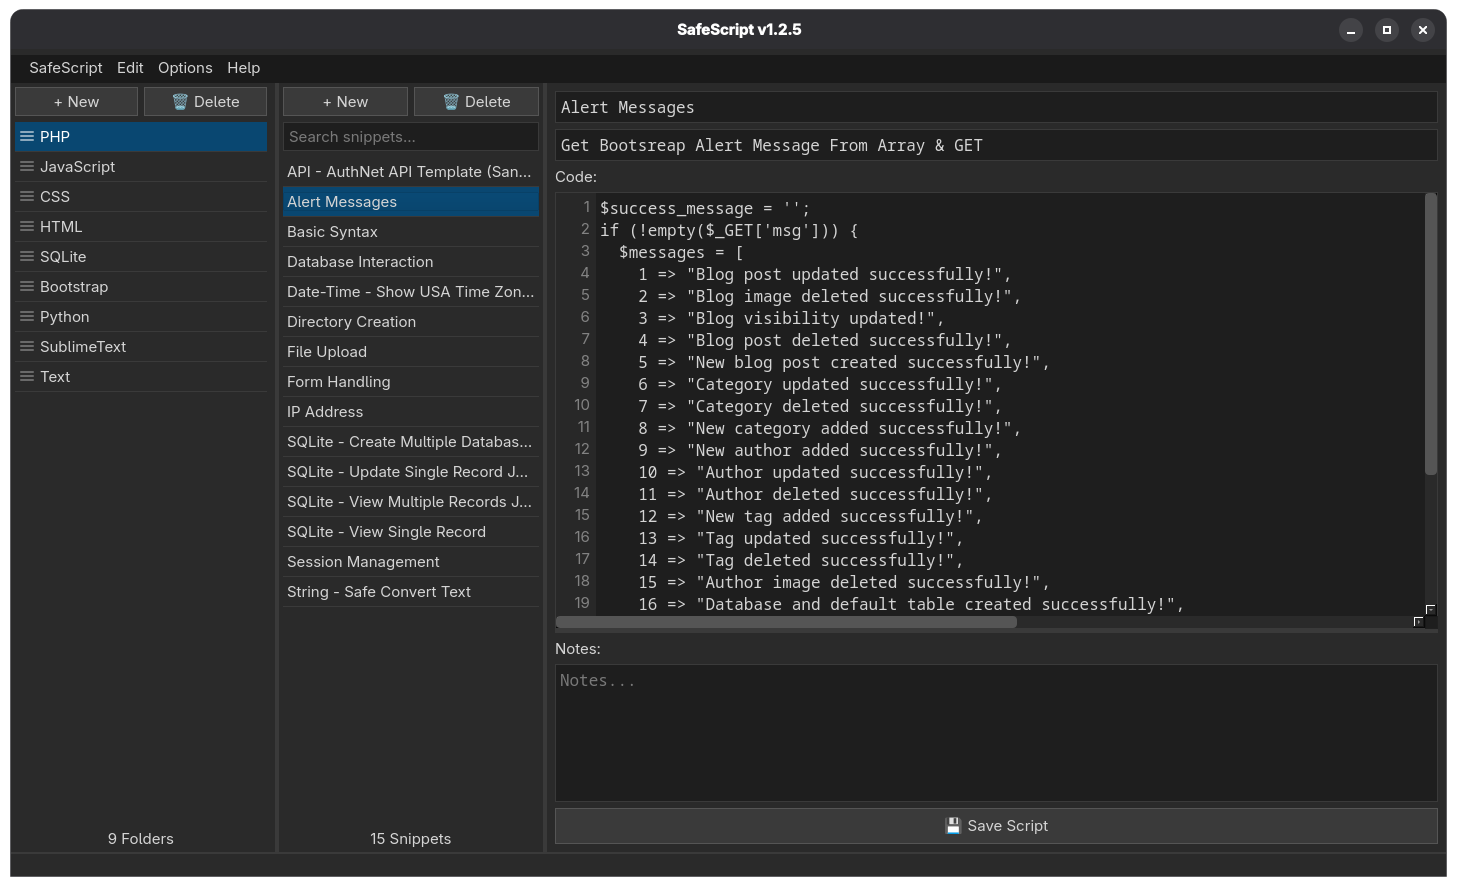
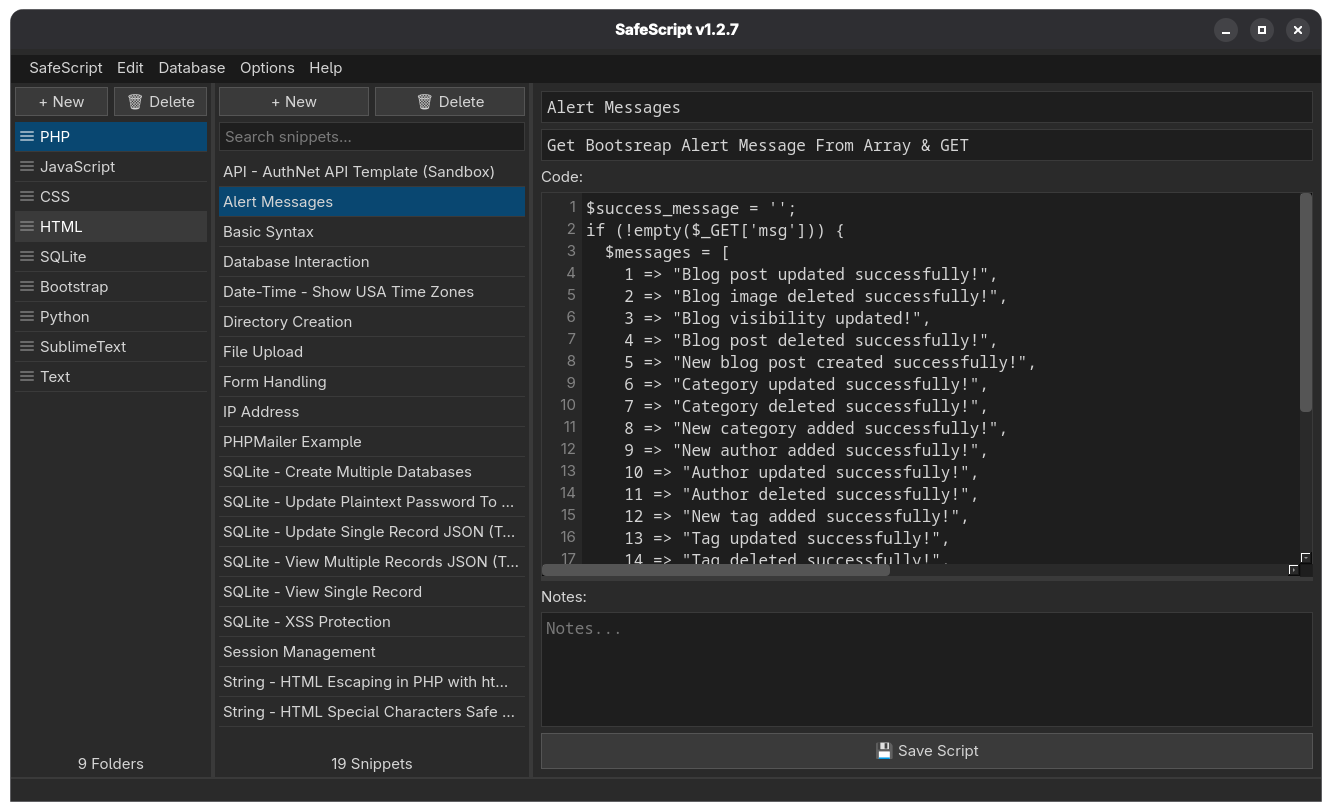
v1.2.8: Ctrl+N new snippet, session restore, editor divider persistence, reset layout, updated screenshots

diff --git a/mainwindow.cpp b/mainwindow.cpp
@@ -185,6 +185,14 @@ MainWindow::MainWindow(QWidget* parent) : QMainWindow(parent) {
     if (!savedSplitter.isEmpty())
         mainSplitter->restoreState(QByteArray::fromBase64(savedSplitter.toLatin1()));
 
+    // Restore the code / notes divider inside the editor pane
+    QString savedEditorSplitter = DatabaseManager::instance().getSetting("EditorSplitterState");
+    if (!savedEditorSplitter.isEmpty())
+        editorSplitter->restoreState(QByteArray::fromBase64(savedEditorSplitter.toLatin1()));
+
+    // Restore the folder + snippet that were open last session
+    restoreLastSelection();
+
     // Center on screen
     QScreen* screen = QGuiApplication::primaryScreen();
     if (screen) {
@@ -194,6 +202,37 @@ MainWindow::MainWindow(QWidget* parent) : QMainWindow(parent) {
     statusBar()->setStyleSheet(darkModeEnabled
                                    ? "QStatusBar { background-color: #2a2a2a; border-top: 2px solid #3a3a3a; }"
                                    : "QStatusBar { background-color: #cccccc; border-top: 2px solid #bbbbbb; }");
+}
+
+// ── Restore last opened folder / snippet ──────────────────────
+// Called once at startup, after loadFolders() has populated the sidebar.
+// Silently does nothing if the saved IDs no longer exist (deleted, or a
+// different database was imported), leaving the default first-row selection.
+void MainWindow::restoreLastSelection() {
+    int lastFolder = DatabaseManager::instance().getSetting("LastFolderID", "-1").toInt();
+    if (lastFolder < 0) return;
+
+    bool folderFound = false;
+    for (int i = 0; i < folderList->count(); ++i) {
+        if (folderList->item(i)->data(Qt::UserRole).toInt() == lastFolder) {
+            // Selecting the row fires onFolderSelected(), which loads its snippets.
+            folderList->setCurrentRow(i);
+            folderFound = true;
+            break;
+        }
+    }
+    if (!folderFound) return;
+
+    int lastSnippet = DatabaseManager::instance().getSetting("LastSnippetID", "-1").toInt();
+    if (lastSnippet < 0) return;
+
+    for (int i = 0; i < snippetList->count(); ++i) {
+        if (snippetList->item(i)->data(Qt::UserRole).toInt() == lastSnippet) {
+            snippetList->setCurrentRow(i);
+            snippetList->scrollToItem(snippetList->item(i));
+            break;
+        }
+    }
 }
 
 // ── Theme ─────────────────────────────────────────────────────
@@ -306,7 +345,7 @@ bool MainWindow::eventFilter(QObject* obj, QEvent* event) {
 
 // ── Setup UI ──────────────────────────────────────────────────
 void MainWindow::setupUI() {
-    setWindowTitle("SafeScript v1.2.7");
+    setWindowTitle("SafeScript v1.2.8");
     resize(1100, 700);
 
     // ── Footer status bar ─────────────────────────────────
@@ -425,7 +464,7 @@ void MainWindow::setupUI() {
     connect(btnSave, &QPushButton::clicked, this, &MainWindow::onSaveSnippet);
 
     // ── Editor splitter for code/notes ───────────────────
-    QSplitter* editorSplitter = new QSplitter(Qt::Vertical);
+    editorSplitter = new QSplitter(Qt::Vertical);
     editorSplitter->addWidget(codeEditor);
 
     QWidget* notesWidget = new QWidget;
@@ -436,6 +475,7 @@ void MainWindow::setupUI() {
     editorSplitter->addWidget(notesWidget);
     editorSplitter->setStretchFactor(0, 3);
     editorSplitter->setStretchFactor(1, 1);
+    editorSplitter->setChildrenCollapsible(false);   // code/notes can't be dragged to zero
 
     QVBoxLayout* editorLayout = new QVBoxLayout;
     editorLayout->setContentsMargins(8, 8, 8, 8);
@@ -475,7 +515,7 @@ void MainWindow::setupMenuBar() {
         layout->setContentsMargins(20, 20, 20, 20);
         layout->setSpacing(8);
         QLabel* text = new QLabel(
-            "<b>SafeScript v1.2.7</b><br>"
+            "<b>SafeScript v1.2.8</b><br>"
             "Designed &amp; Programmed By<br>"
             "Thomas J. Allen<br>"
             "Copyright 2025<br>"
@@ -535,6 +575,11 @@ void MainWindow::setupMenuBar() {
     });
 
     editMenu->addSeparator();
+    QAction* newSnippetAction = new QAction("New Snippet", this);
+    newSnippetAction->setShortcut(QKeySequence::New);   // Ctrl+N
+    connect(newSnippetAction, &QAction::triggered, this, &MainWindow::onNewSnippet);
+    editMenu->addAction(newSnippetAction);
+
     QAction* saveAction = new QAction("Save Snippet", this);
     saveAction->setShortcut(QKeySequence::Save);   // Ctrl+S
     connect(saveAction, &QAction::triggered, this, &MainWindow::onSaveSnippet);
@@ -565,6 +610,11 @@ void MainWindow::setupMenuBar() {
     darkModeAction->setCheckable(true);
     connect(darkModeAction, &QAction::triggered, this, &MainWindow::onToggleDarkMode);
     optionsMenu->addAction(darkModeAction);
+
+    optionsMenu->addSeparator();
+    QAction* resetLayoutAction = new QAction("Reset Window Size", this);
+    connect(resetLayoutAction, &QAction::triggered, this, &MainWindow::onResetWindowSize);
+    optionsMenu->addAction(resetLayoutAction);
 
     QMenu* helpMenu = menuBar()->addMenu("Help");
     helpMenu->addAction("Storage Location", this, [this](){
@@ -689,6 +739,34 @@ void MainWindow::onToggleLineNumbers() {
     codeEditor->updateLineNumberAreaWidth();
     lineNumberArea->update();
     DatabaseManager::instance().saveSetting("LineNumbers", lineNumbersEnabled ? "on" : "off");
+}
+
+// Restores the default window size, column widths and code/notes divider,
+// and clears the saved layout so nothing stale comes back on next launch.
+// Does not touch snippets, folders, or the Wrap/Dark/Line Numbers options.
+void MainWindow::onResetWindowSize() {
+    // Default window size (matches setupUI)
+    resize(1100, 700);
+
+    // Default column widths (matches setupUI)
+    mainSplitter->setSizes({200, 260, 640});
+
+    // Default code / notes divider — 3:1, same ratio as the stretch factors
+    int h = editorSplitter->height();
+    if (h < 100) h = 500;            // fallback if not laid out yet
+    editorSplitter->setSizes({ h * 3 / 4, h / 4 });
+
+    // Clear the stored layout values
+    DatabaseManager::instance().saveSetting("WindowSize", "");
+    DatabaseManager::instance().saveSetting("SplitterState", "");
+    DatabaseManager::instance().saveSetting("EditorSplitterState", "");
+
+    // Re-center on screen
+    QScreen* screen = QGuiApplication::primaryScreen();
+    if (screen) {
+        QRect geo = screen->availableGeometry();
+        move((geo.width() - width()) / 2, (geo.height() - height()) / 2);
+    }
 }
 
 // ── Folder Slots ──────────────────────────────────────────────
@@ -912,5 +990,10 @@ void MainWindow::closeEvent(QCloseEvent* event) {
                                             QString("%1x%2").arg(width()).arg(height()));
     DatabaseManager::instance().saveSetting("SplitterState",
                                             QString::fromLatin1(mainSplitter->saveState().toBase64()));
+    DatabaseManager::instance().saveSetting("EditorSplitterState",
+                                            QString::fromLatin1(editorSplitter->saveState().toBase64()));
+    // Remember which folder / snippet was open so we can restore it next launch
+    DatabaseManager::instance().saveSetting("LastFolderID",  QString::number(currentFolderID));
+    DatabaseManager::instance().saveSetting("LastSnippetID", QString::number(currentSnippetID));
     event->accept();
 }

diff --git a/mainwindow.h b/mainwindow.h
@@ -125,6 +125,7 @@ private slots:
     void onUpdateRequest(const QRect& rect, int dy);
     void onBackupDatabase();
     void onImportDatabase();
+    void onResetWindowSize();
 
 private:
     void setupUI();
@@ -134,6 +135,7 @@ private:
     void clearEditor();
     void populateEditor(const Snippet& s);
     void applyThemeStyles(bool dark);
+    void restoreLastSelection();
 
     // Sidebar
     QListWidget*    folderList;
@@ -168,6 +170,7 @@ private:
     QWidget*        sidebarWidget;
     QWidget*        snippetListWidget;
     QSplitter*      mainSplitter;
+    QSplitter*      editorSplitter;
 
     int currentFolderID  = -1;
     int currentSnippetID = -1;